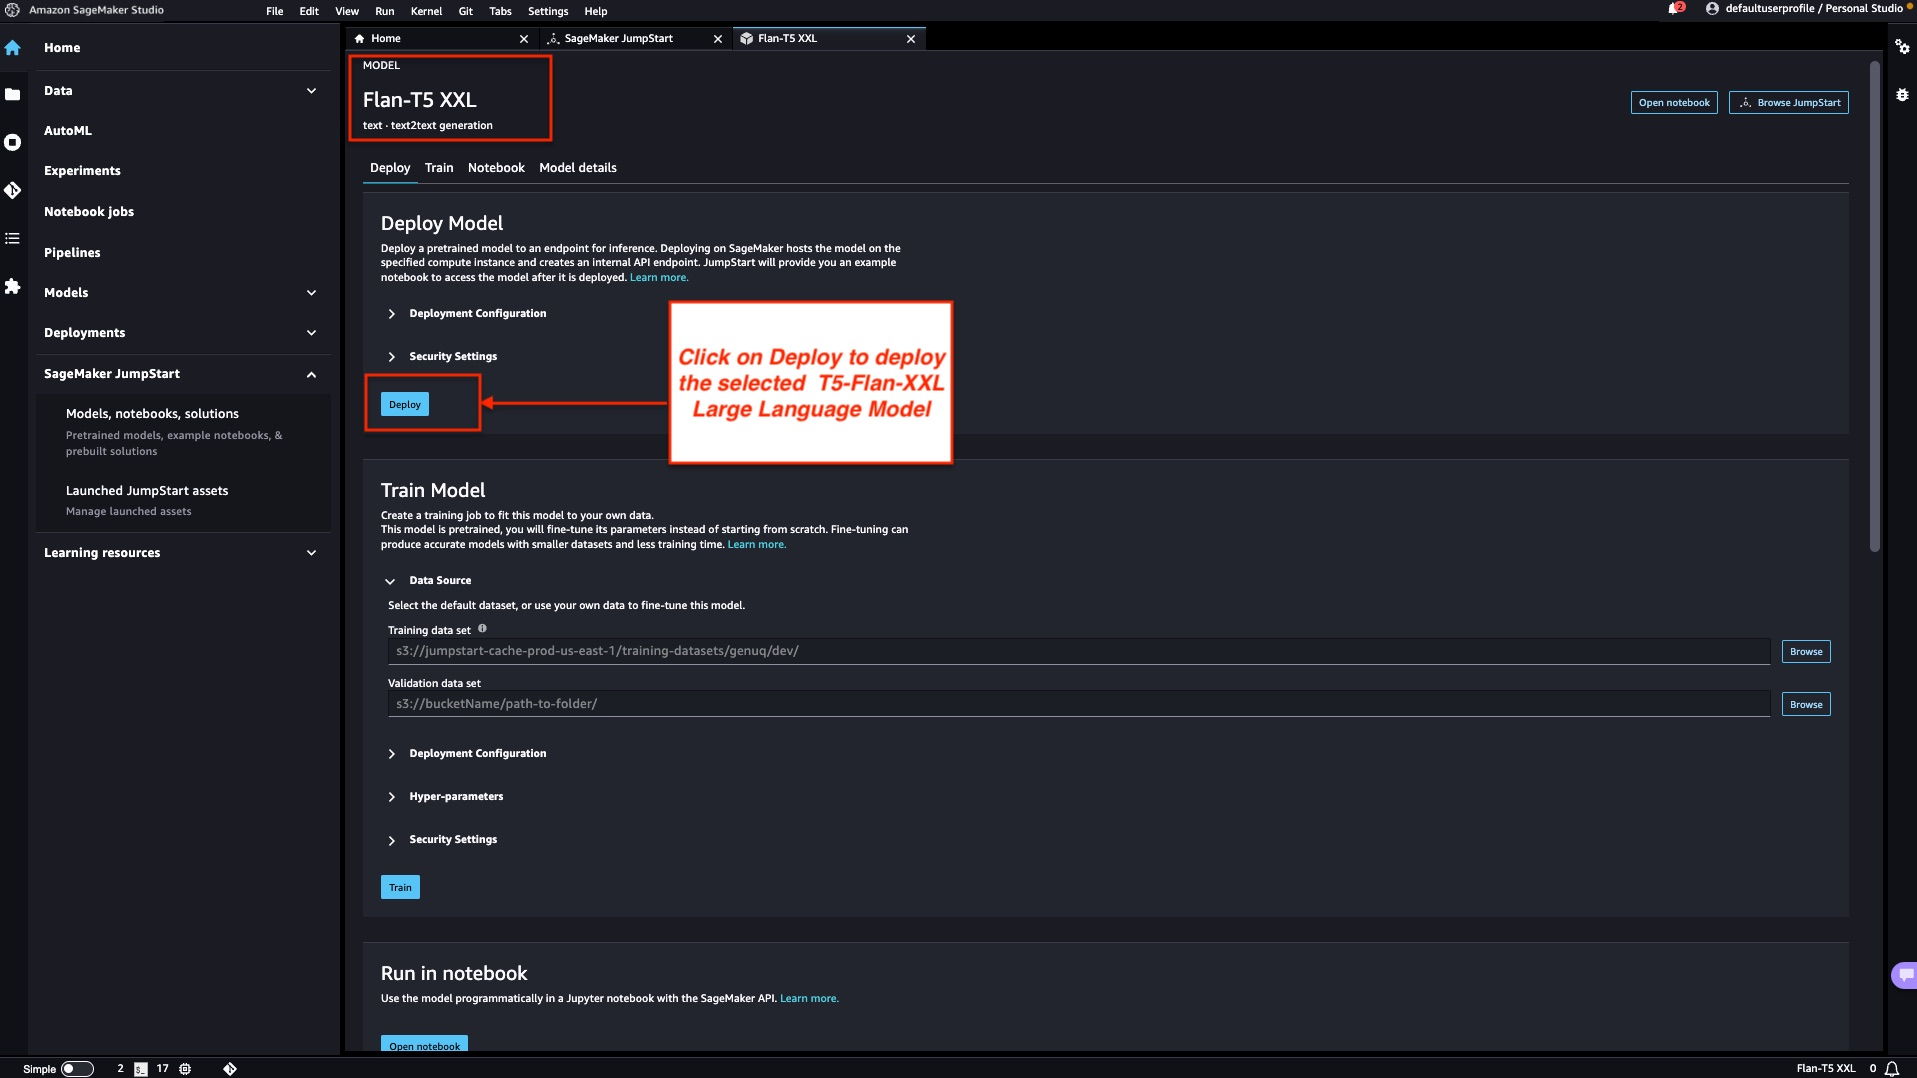
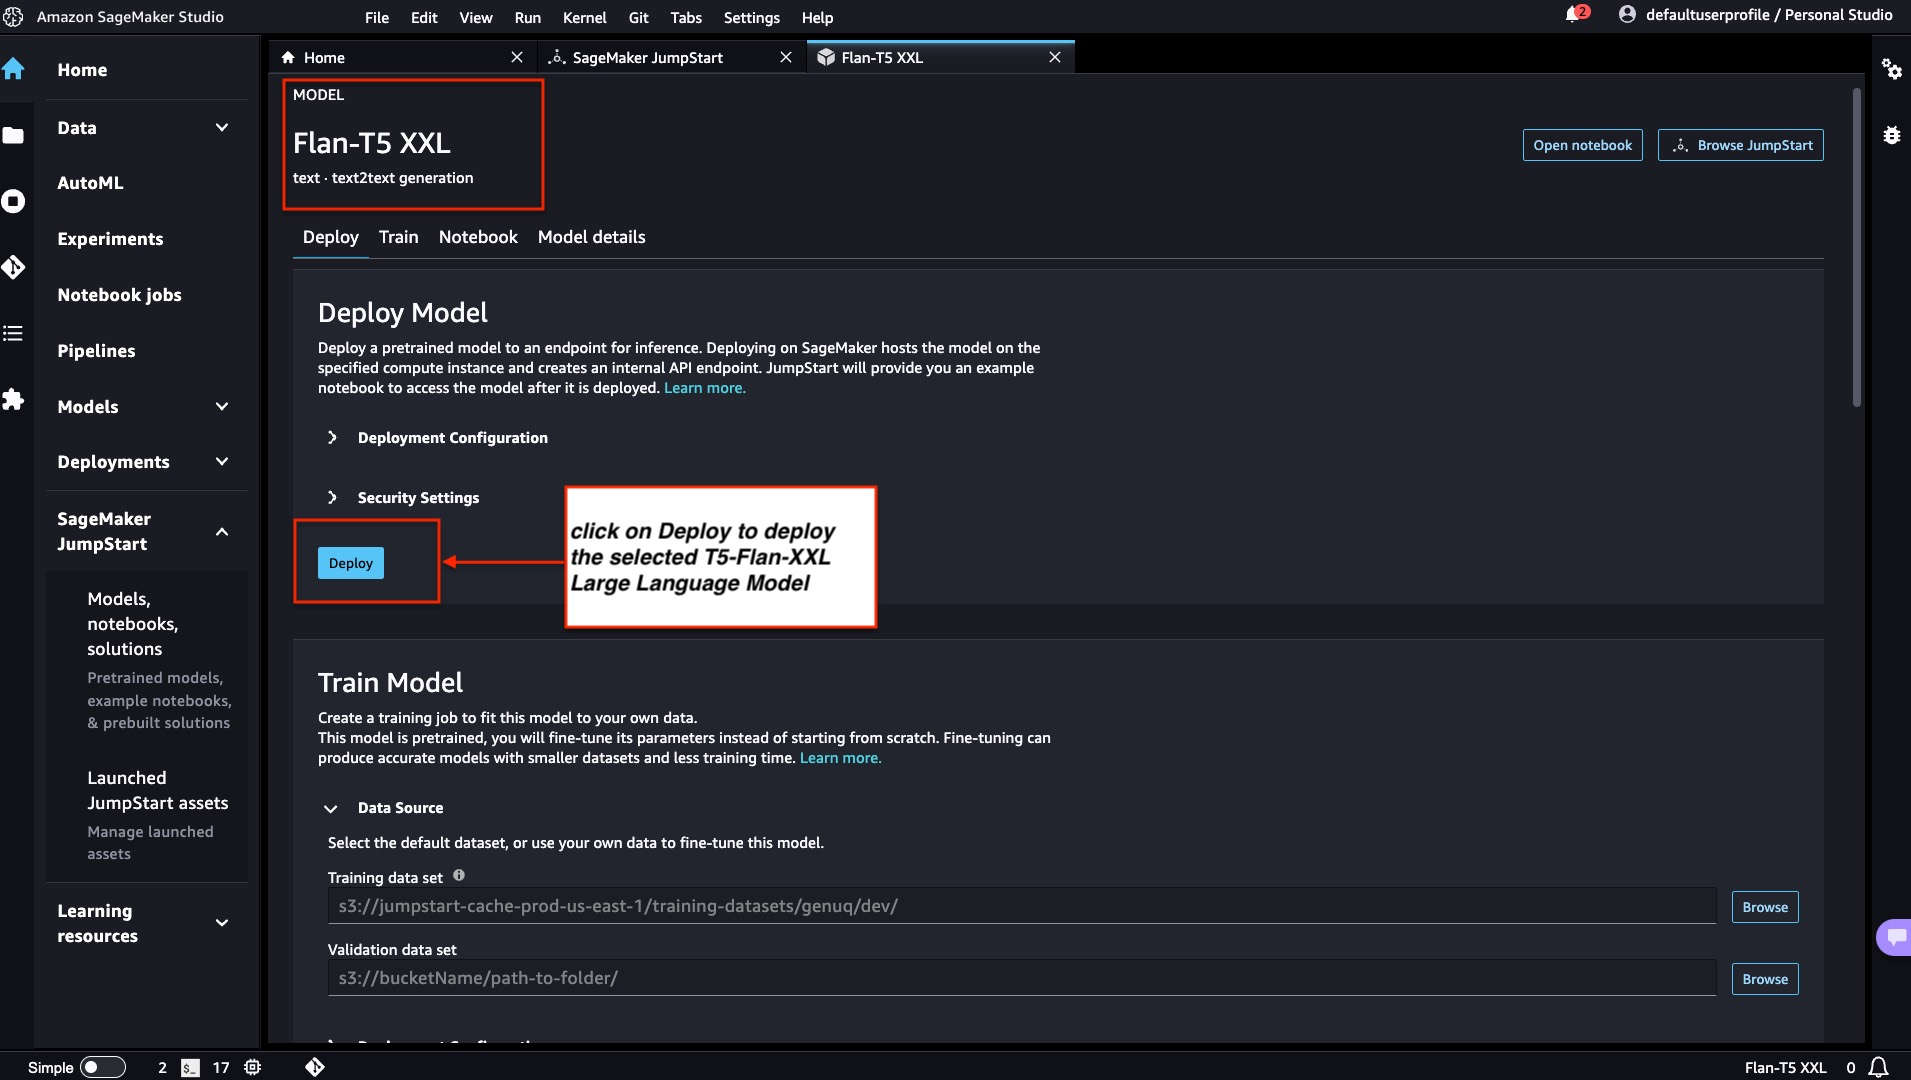
Updating the images

Changed region(s): [[0.0, 0.0, 1.0, 1.0], [0.0309, 0.8265, 0.0617, 0.8878]]

diff --git a/tutorials/fullstack-llm-langchain-chatbot-on-aws/index.md b/tutorials/fullstack-llm-langchain-chatbot-on-aws/index.md
@@ -56,7 +56,7 @@ To get started, follow the steps outlined in [Amazon SageMaker Documentation - O
 ![Deploy the GPT-J 6B FP16 Embedding model from within Amazon SageMaker JumpStart](images/embedding2.jpg)
 
 ## Step 2 - Deploy the Flan T5 XXL LLM Model with Amazon SageMaker JumpStart
-Next, within Amazon SageMaker JumpStart, choose the Flan-T5 XXL FP16 Large Language Model (LLM), and then click on 'Deploy' to initiate the automatic setup of infrastructure and deploy the model endpoint into the Amazon SageMaker environment.
+Next, within Amazon SageMaker JumpStart, choose the Flan-T5 XXL Large Language Model (LLM), and then click on 'Deploy' to initiate the automatic setup of infrastructure and deploy the model endpoint into the Amazon SageMaker environment.
 
 ![Deploy the GPT-J 6B FP16 Embedding model from within Amazon SageMaker JumpStart](images/t5-flan-xxl-2.jpg)
 
